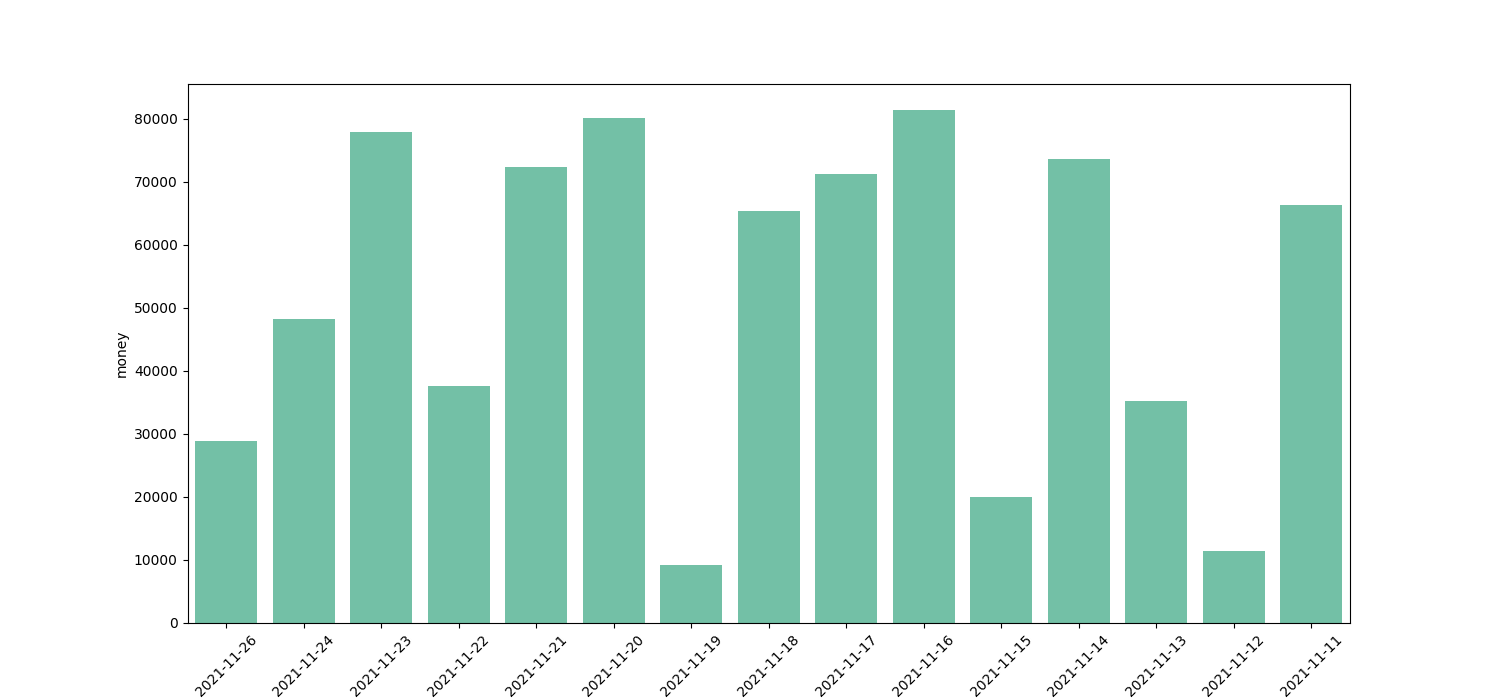
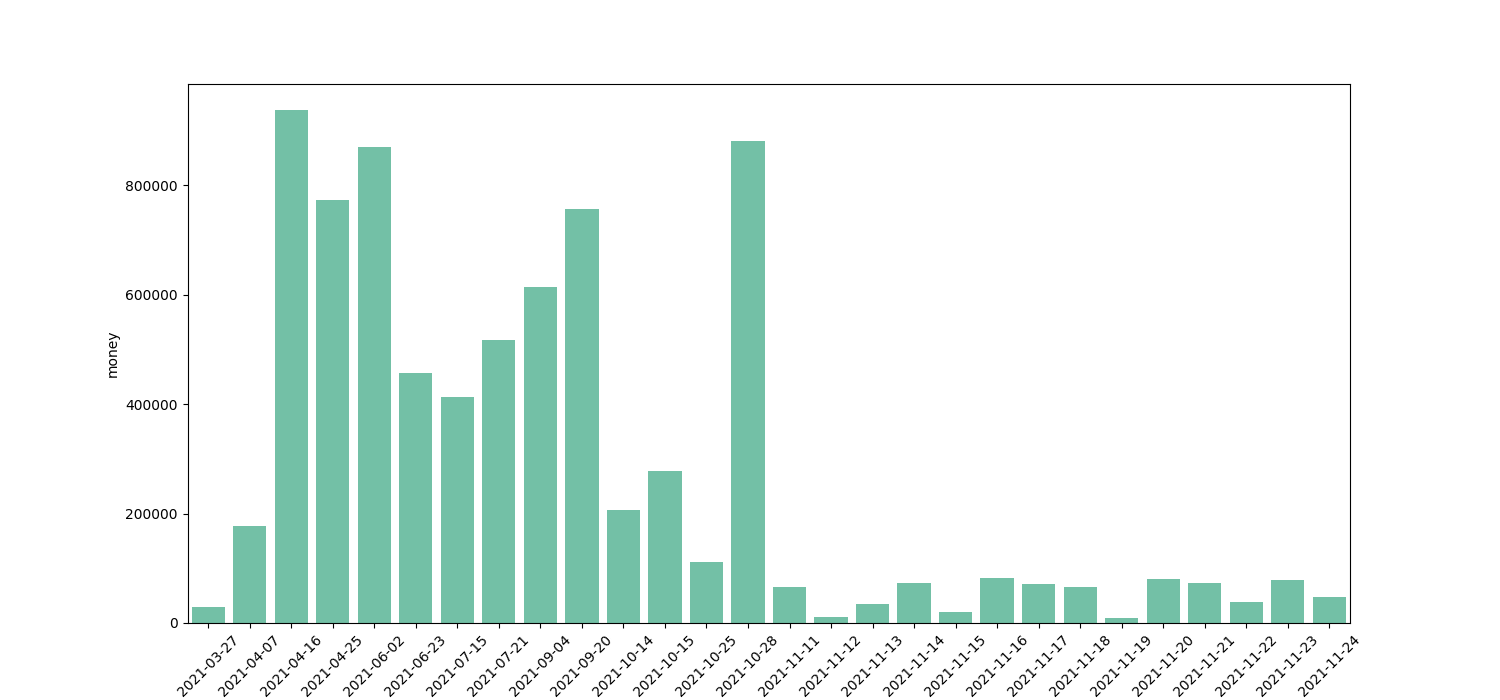
Added piechart support

diff --git a/api/views.py b/api/views.py
@@ -14,17 +14,27 @@ import base64
 
 
 def index(request):
-    responseData = requests.get("http://192.168.0.102:8080/transaction/all")
+    responseData = requests.get(
+        "http://192.168.0.110:9999/transaction/all?start=2021-03-27&end=2021-11-24")
     jsonData = responseData.json()
     df = pandas.json_normalize(jsonData)
+    df.sort_values(by=['dateTime'], inplace=True, ascending=True)
     plt.figure(figsize=(15, 7))
     sns.barplot(x='dateTime', y='money', data=df,
                 color="mediumaquamarine", ci=None)
     plt.xticks(rotation=45)
     plt.savefig('barplot.png')
-    print(pandas.unique(df['companyId']))
+    companies = pandas.unique(df['company_name'])
+    piechartData = {}
+    for company in companies:
+        piechartData[company] = len(df.loc[df['company_name'] == company])
+    plt.figure(figsize=(7, 7))
     with open("barplot.png", 'rb') as f:
-
-        byteString = base64.b64encode(f.read())
-    # return HttpResponse()
+        barString = base64.b64encode(f.read())
+    colors = sns.color_palette('pastel')[0:len(companies)]
+    plt.pie(piechartData.values(), labels=companies,
+            colors=colors, autopct='%.0f%%')
+    plt.savefig('pieplot.png')
+    with open("pieplot.png", 'rb') as f:
+        pieString = base64.b64encode(f.read())
     return JsonResponse(jsonData, safe=False)
